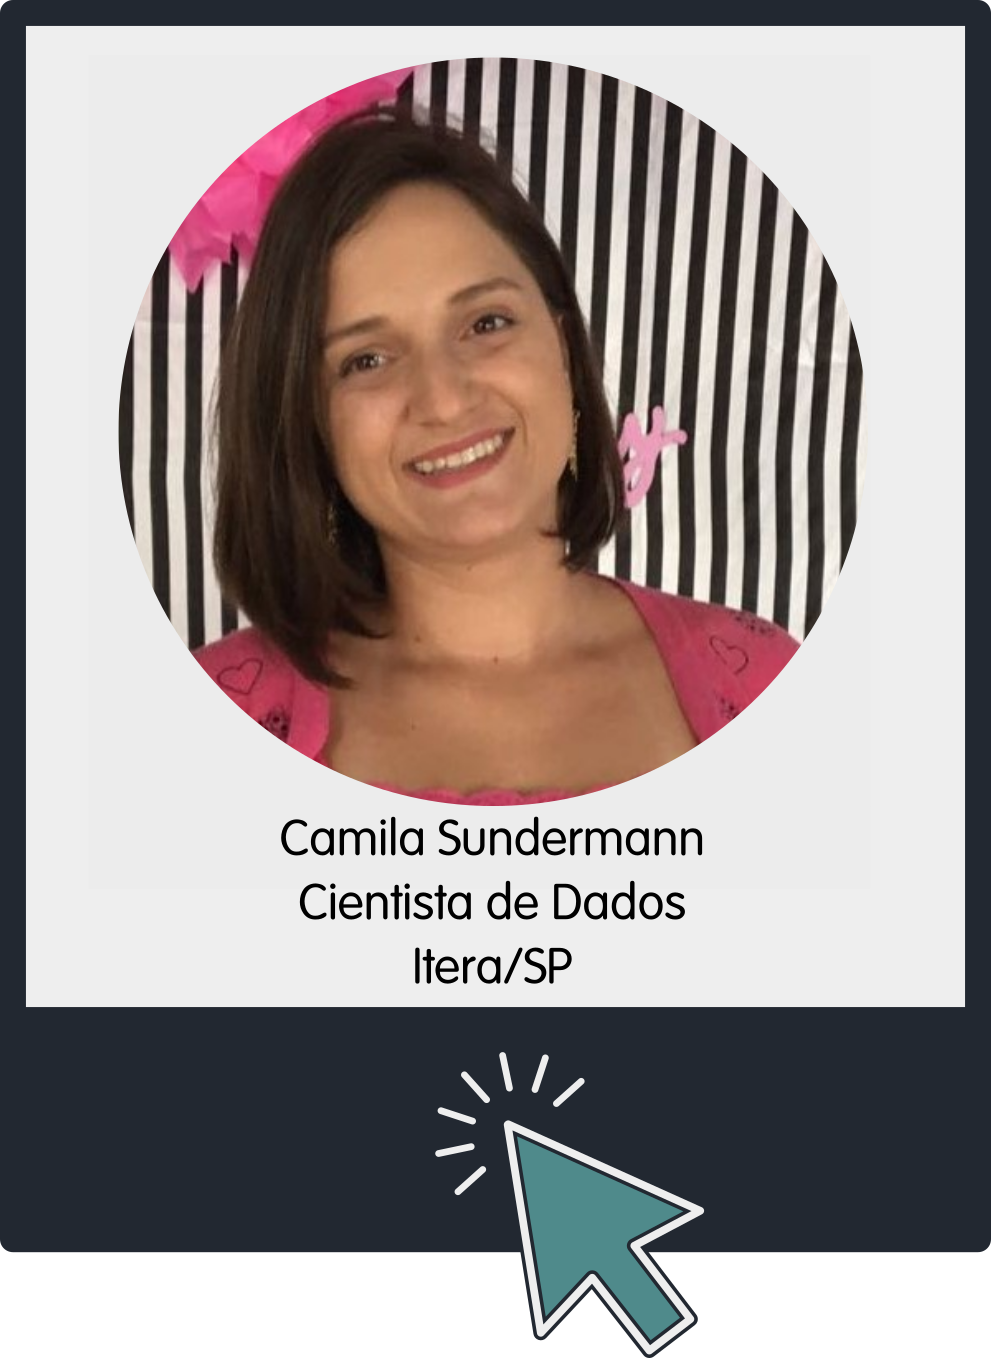
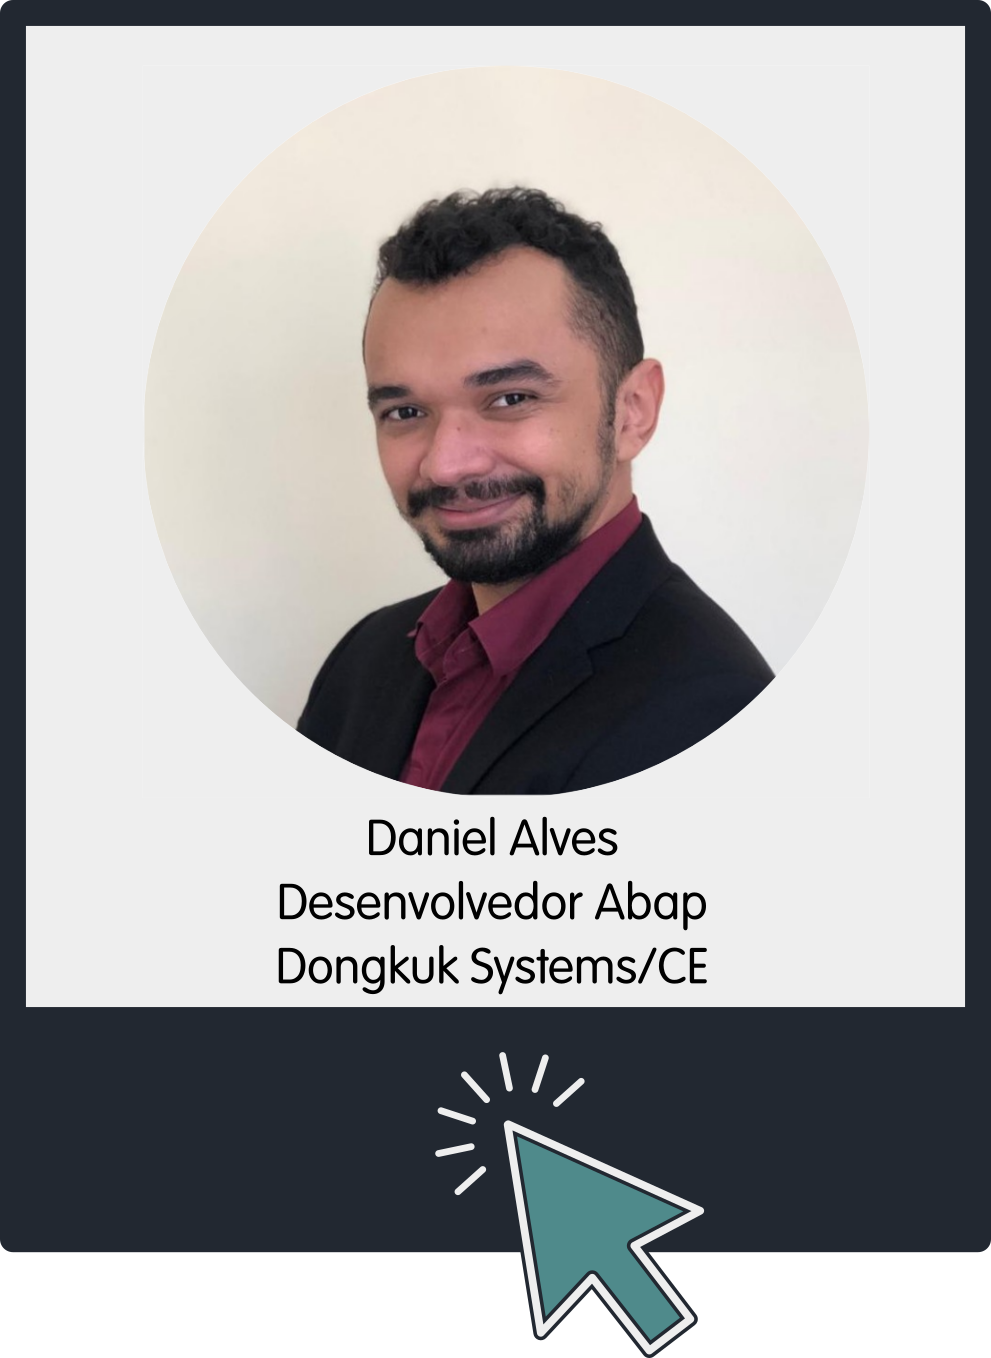
quarta edição inscrições

Changed region(s): [[0.1211, 0.0309, 0.8779, 0.7423]]

diff --git a/index.html b/index.html
@@ -59,9 +59,9 @@
           <div class="col-md-7">
             <img src="img/completo.png" class="logo">
             <h2>Experiências Profissionais na área de Ciência da Computação</h1>
-            <h3>3ª Edição: Sentido e Aprendendo: um Processo Complexo</h3>
-            <h4>14<!--sup>th</sup--> de Setembro, 2020 às 20h15</h4>
-            <a target="_blank" href="" class="btn btn-lg btn-red" >INSCRIÇÕES ENCERRADAS <span class="ti-arrow-right"></span></a>
+            <h3>4ª Edição - Evolução: de Júnior a Sênior</h3>
+            <h4>24<!--sup>th</sup--> de Setembro, 2020 às 16h</h4>
+            <a target="_blank" href="https://forms.gle/3nk9SxjKQAALgfY69" class="btn btn-lg btn-red" >INSCREVA-SE<span class="ti-arrow-right"></span></a>
 
           </div>
           <div class="col-md-3 hidden-xs">
@@ -217,7 +217,7 @@
             <p>Os certificados serão expedidos para o participante mediante inscrição e confirmação da presença no webinar. Os certificados serão enviados ao final das primeiras
               15 edições, por e-mail, tendo o participante participado de no mínimo 5 edições, caso contrário será enviado uma declaração de participação expedido pelos coordenadores do evento.
             </p> 
-            <a target="_blank" href="" class="btn btn-lg btn-red" >INSCRIÇÕES ENCERRADAS<small>(no dia 13/09)</small></a>
+            <a target="_blank" href="https://forms.gle/3nk9SxjKQAALgfY69" class="btn btn-lg btn-red" >INSCREVA-SE<small>(até 23/09)</small></a>
           </div>         
         </div>
       </div>
@@ -230,7 +230,8 @@
           <div class="col-md-12">
             <!-- Nav tabs -->
             <ul class="nav nav-tabs" role="tablist">
-              <li role="presentation" class="active"><a href="#day-3" aria-controls="home" role="tab" data-toggle="tab">3<sup>a</sup> Edição</a></li>
+              <li role="presentation" class="active"><a href="#day-4" aria-controls="home" role="tab" data-toggle="tab">4<sup>a</sup> Edição</a></li>
+              <li role="presentation"><a href="#day-3" aria-controls="home" role="tab" data-toggle="tab">3<sup>a</sup> Edição</a></li>
 
               <li role="presentation"><a href="#day-2" aria-controls="home" role="tab" data-toggle="tab">2<sup>a</sup> Edição</a></li>
               <li role="presentation"><a href="#day-1" aria-controls="home" role="tab" data-toggle="tab">1<sup>a</sup> Edição</a></li>
@@ -285,7 +286,7 @@
                 </div>
               </div>
 
-              <div role="tabpanel" class="tab-pane fade in active" id="day-3">
+              <div role="tabpanel" class="tab-pane fade" id="day-3">
                 <div class="row">
                   <div class="col-md-12">
                     <div class="media">
@@ -313,6 +314,32 @@
                               de dados na Itera trabalhando em projetos de Inteligência Artificial, em especial Mineração de Textos e defendeu seu doutorado no mesmo ano.
                         </p>
                         <p> Acesso ao Webinar <a href="https://www.youtube.com/watch?v=BOFdBhAXRcA" target="_blank"><span class="ti-youtube"></span></a></p>
+
+                      </div>
+                    </div>
+                  </div>                
+                </div>
+              </div>
+
+              <div role="tabpanel" class="tab-pane fade in active" id="day-4">
+                <div class="row">
+                  <div class="col-md-12">
+                    <div class="media">
+                      <div class="media-left">
+                        <a href="#">
+                          <img class="media-object" src="img/speaker-daniel.png" alt="...">
+                        </a>
+                      </div>
+                      <div class="media-body">
+                        <h4 class="media-heading">24/09 - 16h às 18h</h4>
+                        <h5>EVOLUÇÃO: DE JÚNIOR A SÊNIOR</h5>
+                        <p>Daniel Alves
+                          é Técnico em Telecomunicações pelo IFCE e graduando de Ciência da Computação pela Unifor. 
+              Trabalhou na empresa Softtek como analista de testes e também foi presidente da empresa júnior Acens (UECE). Atualmente é Desenvolvedor Abap na <a href="http://www.dkunc.com" target="_blank">Dongkuk Systems (동국시스템즈)</a>.
+              Um dos principais pontos que o Daniel irá tratar no Conta Aê será sobre o quanto a Empresa Júnior influenciou em sua carreira.
+            </p>
+                        </p>
+                        <!-- <p> Acesso ao Webinar <a href="https://www.youtube.com/watch?v=BOFdBhAXRcA" target="_blank"><span class="ti-youtube"></span></a></p> -->
 
                       </div>
                     </div>
